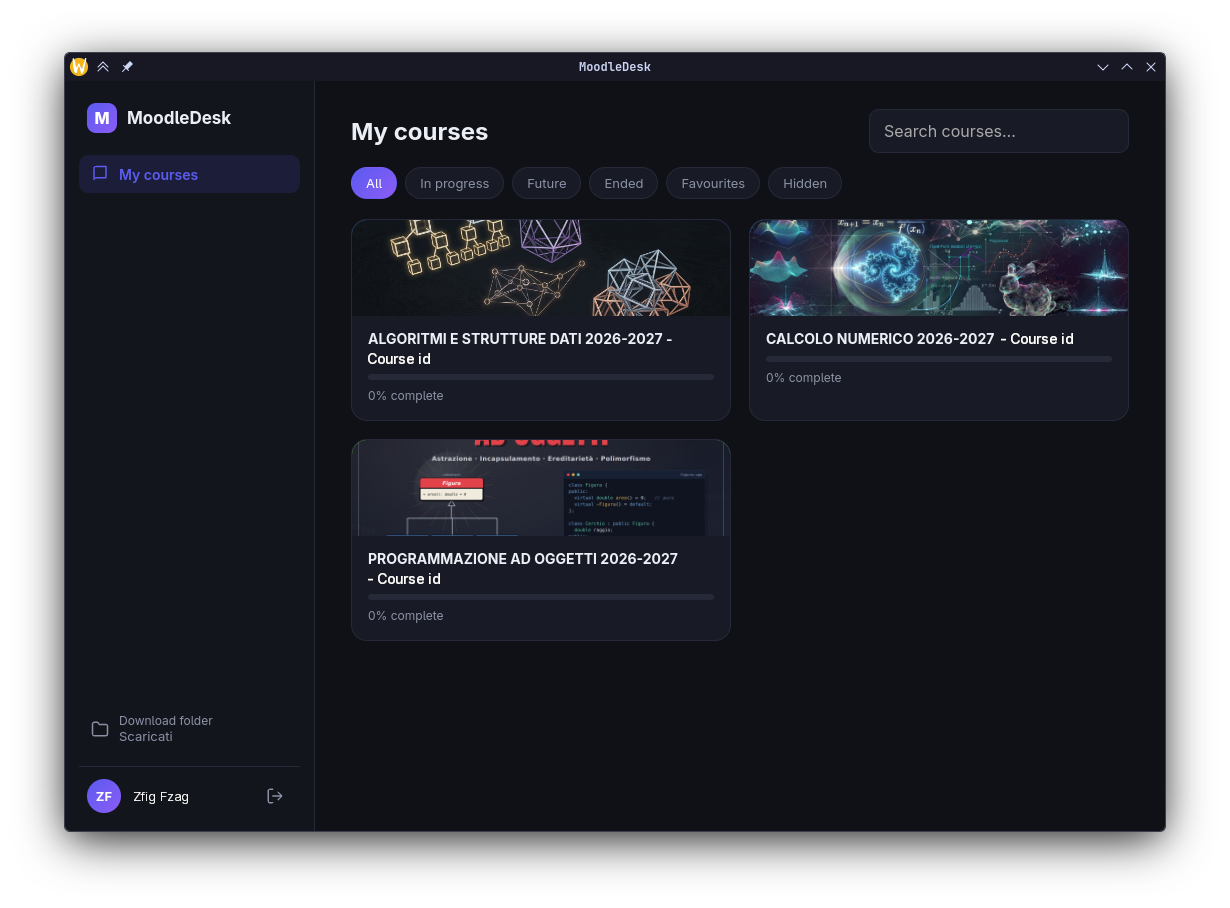
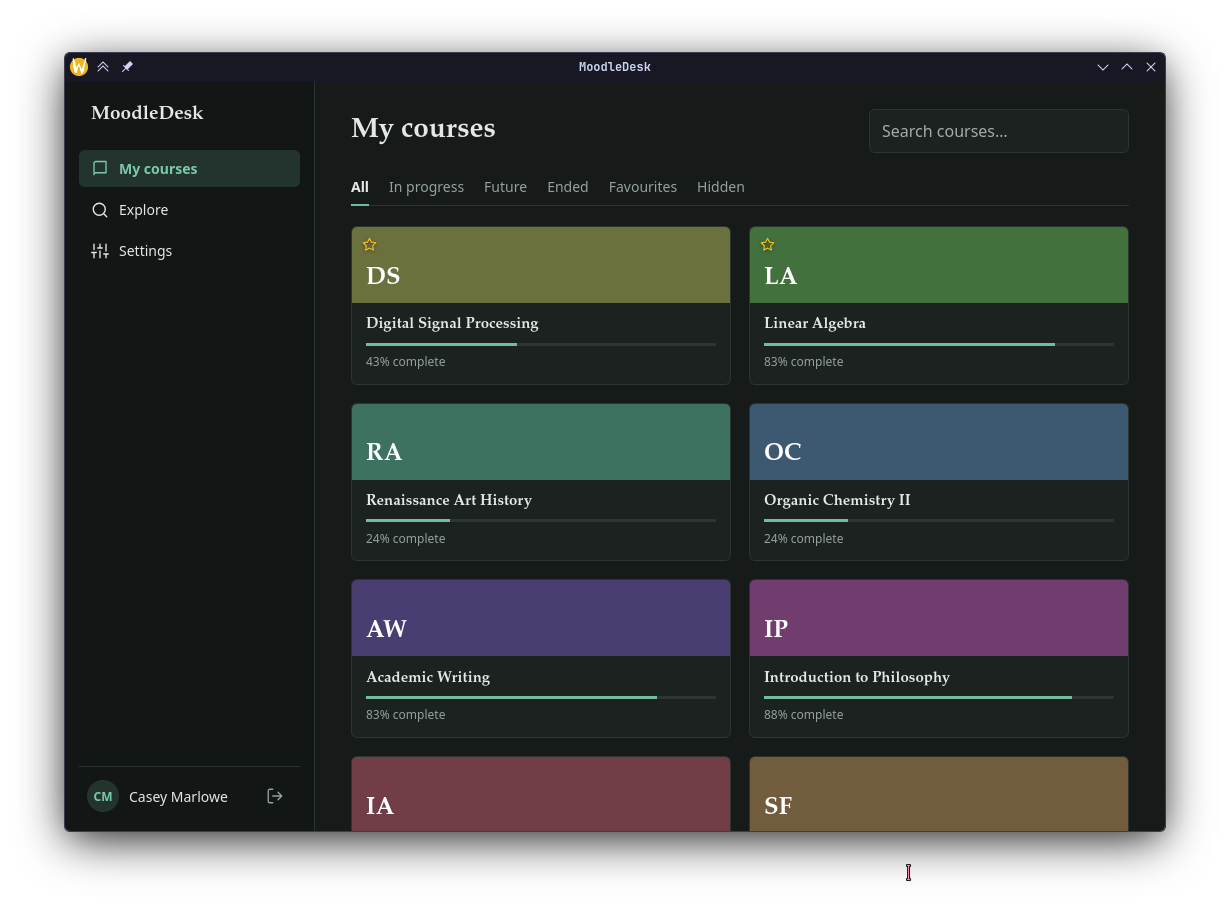
added custom screenshot

diff --git a/src/demo.ts b/src/demo.ts
@@ -1,0 +1,92 @@
+// Screenshot mode (`moodledesk --screenshot`): invented data instead of the real Moodle site, so screenshots show nobody's real
+// name or courses. Nothing is sent over the network and the saved login is never read or changed.
+import type { Course, Section, Assign, SearchCourse } from "./api";
+
+const SITE = "https://moodle.example.edu";
+const pick = <T,>(a: T[]) => a[Math.floor(Math.random() * a.length)];
+const shuffle = <T,>(a: T[]) => a.map((x) => [Math.random(), x] as const).sort((p, q) => p[0] - q[0]).map((p) => p[1]);
+const now = Math.floor(Date.now() / 1000), DAY = 86400;
+const date = (t: number) => new Date(t * 1000).toLocaleString(undefined, { dateStyle: "long", timeStyle: "short" });
+
+const CATS = [{ id: 1, name: "Sciences", parent: 0 }, { id: 2, name: "Humanities", parent: 0 }, { id: 3, name: "Engineering", parent: 0 }];
+const POOL: [string, string, number][] = [
+  ["Linear Algebra", "MATH201", 1], ["Organic Chemistry II", "CHEM240", 1], ["Statistics for the Life Sciences", "STAT110", 1], ["Classical Mechanics", "PHYS150", 1],
+  ["Renaissance Art History", "ARTH220", 2], ["Academic Writing", "ENGL101", 2], ["Introduction to Philosophy", "PHIL100", 2], ["Medieval European History", "HIST210", 2],
+  ["Introduction to Algorithms", "CS230", 3], ["Operating Systems", "CS340", 3], ["Digital Signal Processing", "EE320", 3], ["Fluid Dynamics", "ME310", 3],
+];
+const FIRST = ["Alex", "Sam", "Jordan", "Riley", "Casey", "Taylor", "Morgan", "Jamie", "Robin", "Quinn", "Avery", "Noor"];
+const LAST = ["Bennett", "Okafor", "Lindqvist", "Marlowe", "Castellan", "Hayashi", "Delacroix", "Whitfield", "Novak", "Ibarra"];
+const name = () => `${pick(FIRST)} ${pick(LAST)}`;
+
+type Fake = Course & { kind: "inprogress" | "future" | "past"; cat: number; teacher: string };
+let courses: Fake[] | null = null;
+const data = () => courses ??= shuffle(POOL).slice(0, 9).map(([fullname, shortname, cat], i): Fake => ({
+  id: 101 + i, fullname, shortname, cat, teacher: name(), isfavourite: i < 2, hidden: i === 8,
+  kind: i === 6 ? "past" : i === 7 ? "future" : "inprogress",
+  progress: i === 6 ? 100 : i === 7 ? 0 : 5 + Math.floor(Math.random() * 90),
+}));
+const asSearch = (c: Fake): SearchCourse => ({ id: c.id, fullname: c.fullname, shortname: c.shortname, categoryid: c.cat, categoryname: CATS[c.cat - 1].name,
+  summary: `<p>${c.fullname} with ${c.teacher}.</p>`, contacts: [{ id: c.id, fullname: c.teacher }], enrollmentmethods: ["self"] });
+const FILTER: Record<string, (c: Fake) => boolean> = {
+  all: (c) => !c.hidden, inprogress: (c) => !c.hidden && c.kind === "inprogress", future: (c) => !c.hidden && c.kind === "future",
+  past: (c) => !c.hidden && c.kind === "past", favourites: (c) => !c.hidden && !!c.isfavourite, hidden: (c) => !!c.hidden,
+};
+
+// module ids end in 1..7; the assignment instance id is cmid + 50000
+const file = (cid: number, filename: string, filesize: number) => ({ type: "file", filename, fileurl: `${SITE}/pluginfile.php/${cid}/${filename}`, filesize, timemodified: now - 9 * DAY });
+const contents = (cid: number): Section[] => {
+  const b = cid * 100;
+  return [
+    { id: cid * 10 + 1, name: "General", summary: "", modules: [
+      { id: b + 1, name: "Course syllabus", modname: "resource", contents: [file(cid, "syllabus.pdf", 184000)] },
+      { id: b + 2, name: "Announcements", modname: "forum", url: `${SITE}/mod/forum/view.php?id=${b + 2}` }] },
+    { id: cid * 10 + 2, name: "Week 1", summary: "", modules: [
+      { id: b + 3, name: "Lecture slides", modname: "resource", contents: [file(cid, "week1-slides.pdf", 2400000)] },
+      { id: b + 4, name: "Problem set 1", modname: "assign" },
+      { id: b + 5, name: "Reading response", modname: "assign" }] },
+    { id: cid * 10 + 3, name: "Week 2", summary: "", modules: [
+      { id: b + 6, name: "Lab report", modname: "assign" },
+      { id: b + 7, name: "Midterm quiz", modname: "quiz", uservisible: false, availabilityinfo: `<div>Not available unless: It is after ${date(now + 14 * DAY)}</div>` }] },
+  ];
+};
+const assigns = (cid: number): Assign[] => [
+  { id: cid * 100 + 50004, cmid: cid * 100 + 4, name: "Problem set 1", duedate: now + 3 * DAY, allowsubmissionsfromdate: 0, intro: "<p>Solve the exercises in the attached sheet and upload your answers as a single PDF.</p>", introattachments: [file(cid, "problem-set-1.pdf", 90000)] },
+  { id: cid * 100 + 50005, cmid: cid * 100 + 5, name: "Reading response", duedate: now - 5 * DAY, allowsubmissionsfromdate: 0, intro: "<p>One page on this week's reading.</p>" },
+  { id: cid * 100 + 50006, cmid: cid * 100 + 6, name: "Lab report", duedate: now + 20 * DAY, allowsubmissionsfromdate: now + 7 * DAY, intro: "<p>Write up your results from the lab session.</p>" },
+];
+
+const ws = (fn: string, p: Record<string, string>): unknown => {
+  const cid = Number(p.courseid), c = data();
+  switch (fn) {
+    case "core_webservice_get_site_info": return { userid: 1, fullname: (user ??= name()), sitename: "Example University" };
+    case "core_course_get_enrolled_courses_by_timeline_classification": return { courses: c.filter(FILTER[p.classification] ?? FILTER.all) };
+    case "core_course_set_favourite_courses": { const x = c.find((x) => x.id === Number(p["courses[0][id]"])); if (x) x.isfavourite = p["courses[0][favourite]"] === "1"; return {}; }
+    case "core_user_set_user_preferences": case "core_user_update_user_preferences": {
+      const key = p["preferences[0][name]"] ?? p["preferences[0][type]"], x = c.find((x) => key.endsWith("_" + x.id)); if (x) x.hidden = fn === "core_user_set_user_preferences"; return {}; }
+    case "core_course_get_contents": return contents(cid);
+    case "core_course_get_courses_by_field": return { courses: c.filter((x) => (p.field === "id" ? x.id === Number(p.value) : x.cat === Number(p.value))).map(asSearch) };
+    case "core_course_search_courses": { const q = (p.criteriavalue ?? "").toLowerCase(); const r = c.filter((x) => x.fullname.toLowerCase().includes(q)).map(asSearch); return { total: r.length, courses: r }; }
+    case "core_course_get_categories": return CATS;
+    case "core_enrol_get_users_courses": return c.map((x) => ({ id: x.id }));
+    case "core_enrol_get_course_enrolment_methods": return [];
+    case "mod_assign_get_assignments": return { courses: [{ assignments: assigns(Number(p["courseids[0]"])) }] };
+    case "mod_assign_get_submission_status": {
+      const done = Number(p.assignid) % 100 === 5;
+      return { lastattempt: { submission: { status: done ? "submitted" : "new" } }, feedback: done ? { gradefordisplay: "92.00 / 100.00" } : {} };
+    }
+  }
+  throw "Not available in screenshot mode.";
+};
+let user: string | undefined;
+
+export const fake = async (cmd: string, args: any): Promise<unknown> => {
+  switch (cmd) {
+    case "get_session": return { site: SITE, token: "screenshot-mode" };
+    case "ws_call": return ws(args.function, args.params);
+    case "download_file": return { path: "", reused: false };
+    case "list_downloads": return [];
+    case "default_download_dir": return "";
+    case "delete_downloads": return 0;
+    default: return null;   // logout, open_*, check_update, login: do nothing
+  }
+};

diff --git a/src/main.tsx b/src/main.tsx
@@ -1,5 +1,6 @@
 import ReactDOM from "react-dom/client";
 import App from "./App";
+import { init } from "./api";
 import "./style.css";
 // apply the saved appearance before React renders, so there is no flash of the wrong theme
 {
@@ -8,4 +9,4 @@ import "./style.css";
   // "system" (the default, also when nothing is saved) follows the OS; "on"/"high" and "off" are explicit choices
   if (c === "on" || c === "high" || (c !== "off" && matchMedia("(prefers-contrast: more)").matches)) root.dataset.contrast = "high";
 }
-ReactDOM.createRoot(document.getElementById("root")!).render(<App />);
+init().then(() => ReactDOM.createRoot(document.getElementById("root")!).render(<App />));

diff --git a/src/api.ts b/src/api.ts
@@ -1,4 +1,10 @@
-import { invoke } from "@tauri-apps/api/core";
+import { invoke as real } from "@tauri-apps/api/core";
+import { fake } from "./demo";
+
+// `moodledesk --screenshot`: every call is answered with invented data (see demo.ts)
+let demo = false;
+export const init = () => real<boolean>("screenshot_mode").then((d) => { demo = d; }).catch(() => {});
+const invoke = <T,>(cmd: string, args?: Record<string, unknown>): Promise<T> => (demo ? (fake(cmd, args) as Promise<T>) : real<T>(cmd, args));
 
 export type Session = { site: string; token: string };
 export type Info = { userid: number; fullname: string; sitename: string };

diff --git a/src-tauri/src/lib.rs b/src-tauri/src/lib.rs
@@ -340,6 +340,11 @@ fn default_dir(app: &AppHandle) -> Result<std::path::PathBuf, String> {
         .map(|p| p.join("MoodleDesk"))
         .map_err(|e| e.to_string())
 }
+/// `moodledesk --screenshot`: the UI shows invented courses and a made-up user instead of the real account.
+#[tauri::command]
+fn screenshot_mode() -> bool {
+    std::env::args().any(|a| a == "--screenshot")
+}
 #[tauri::command]
 fn default_download_dir(app: AppHandle) -> Result<String, String> {
     default_dir(&app).map(|p| p.to_string_lossy().to_string())
@@ -709,6 +714,7 @@ pub fn run() {
             logout,
             download_file,
             default_download_dir,
+            screenshot_mode,
             open_external,
             open_authed,
             check_update,

diff --git a/README.md b/README.md
@@ -72,6 +72,10 @@ The bundler needs a full icon set, including `icon.icns` and `icon.ico`. Generat
 npx tauri icon path/to/icon.png
 ```
 
+### Screenshot mode
+
+`moodledesk --screenshot` shows invented course names, teachers and a made-up username (different on each launch) instead of your account, so you can take screenshots without exposing real data. It sends nothing to any Moodle site and never reads or changes your saved login. Close any running MoodleDesk window first, because a second launch hands its arguments to the first instance instead of starting a new one. In development: `npm run tauri dev -- -- --screenshot`.
+
 ## Building
 
 ```bash
